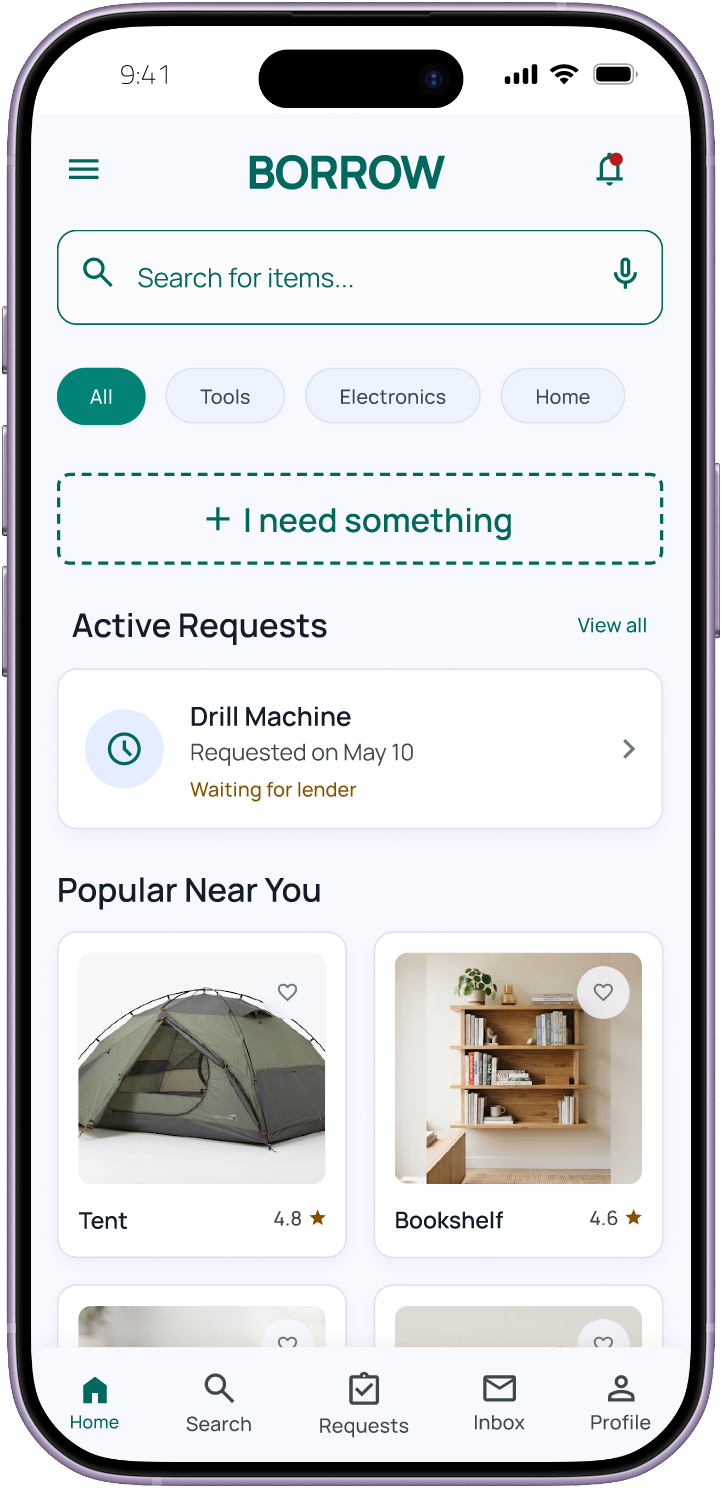
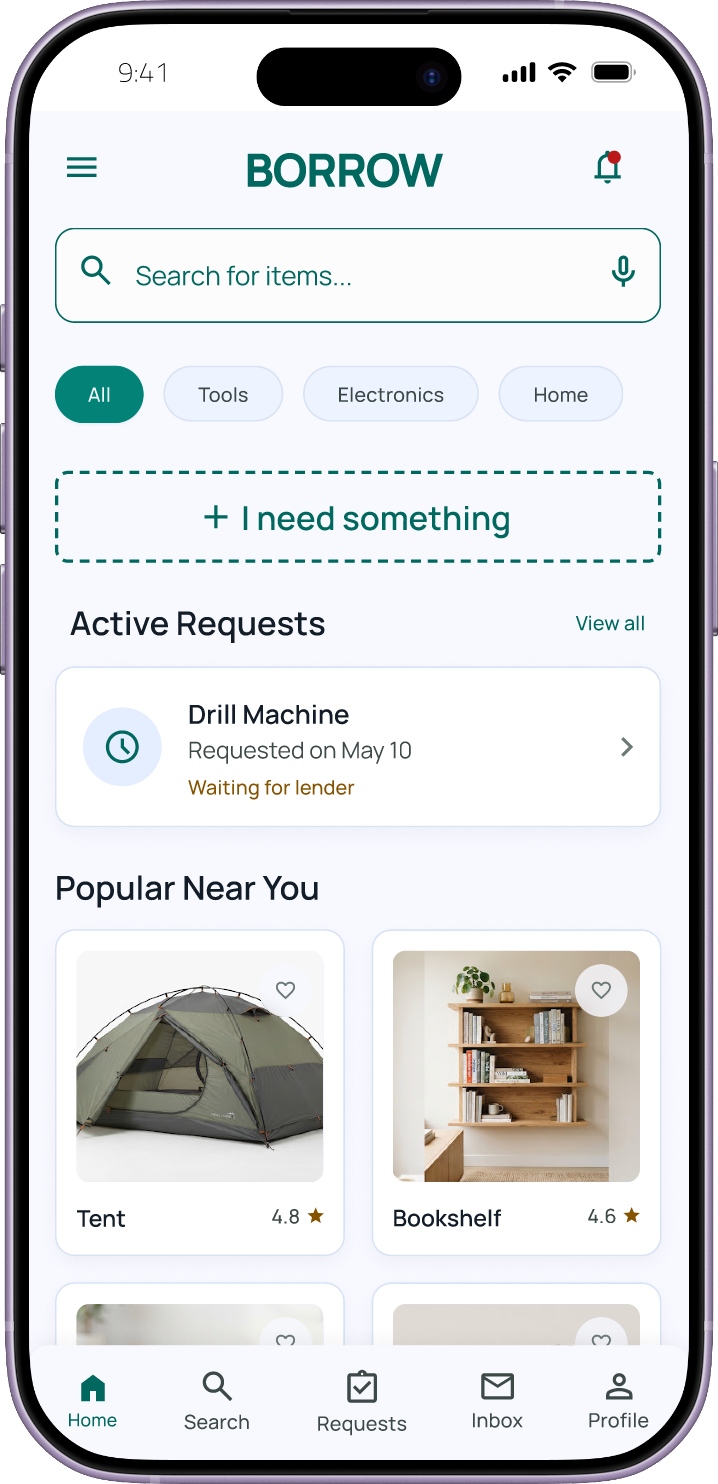
fix: crop mockups with transparent background and update showcase thumbnail

diff --git a/borrow.html b/borrow.html
@@ -552,12 +552,14 @@ body {
   width: 100%;
   max-width: 220px;
   height: auto;
-  border-radius: 12px;
-  box-shadow: 0 10px 24px rgba(0,0,0,0.25);
-  transition: transform 0.25s ease;
+  border-radius: 0;
+  box-shadow: none;
+  filter: drop-shadow(0 12px 24px rgba(0,0,0,0.35));
+  transition: transform 0.25s ease, filter 0.25s ease;
 }
 .screen-item__mockup img:hover {
   transform: translateY(-4px) scale(1.02);
+  filter: drop-shadow(0 16px 32px rgba(0,0,0,0.45));
 }
 .screen-item__content {
   display: flex;
